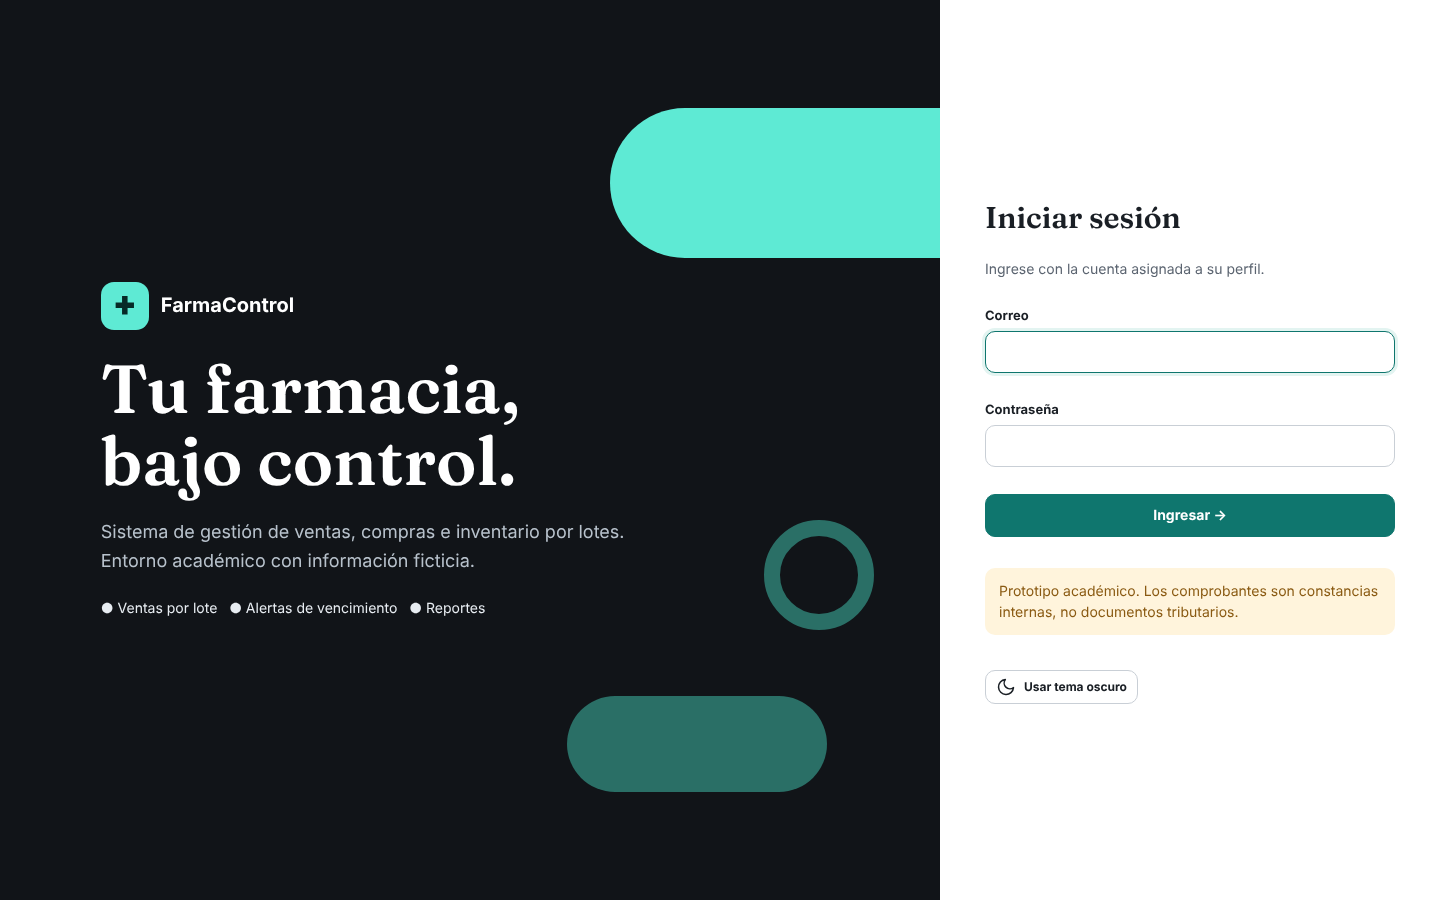
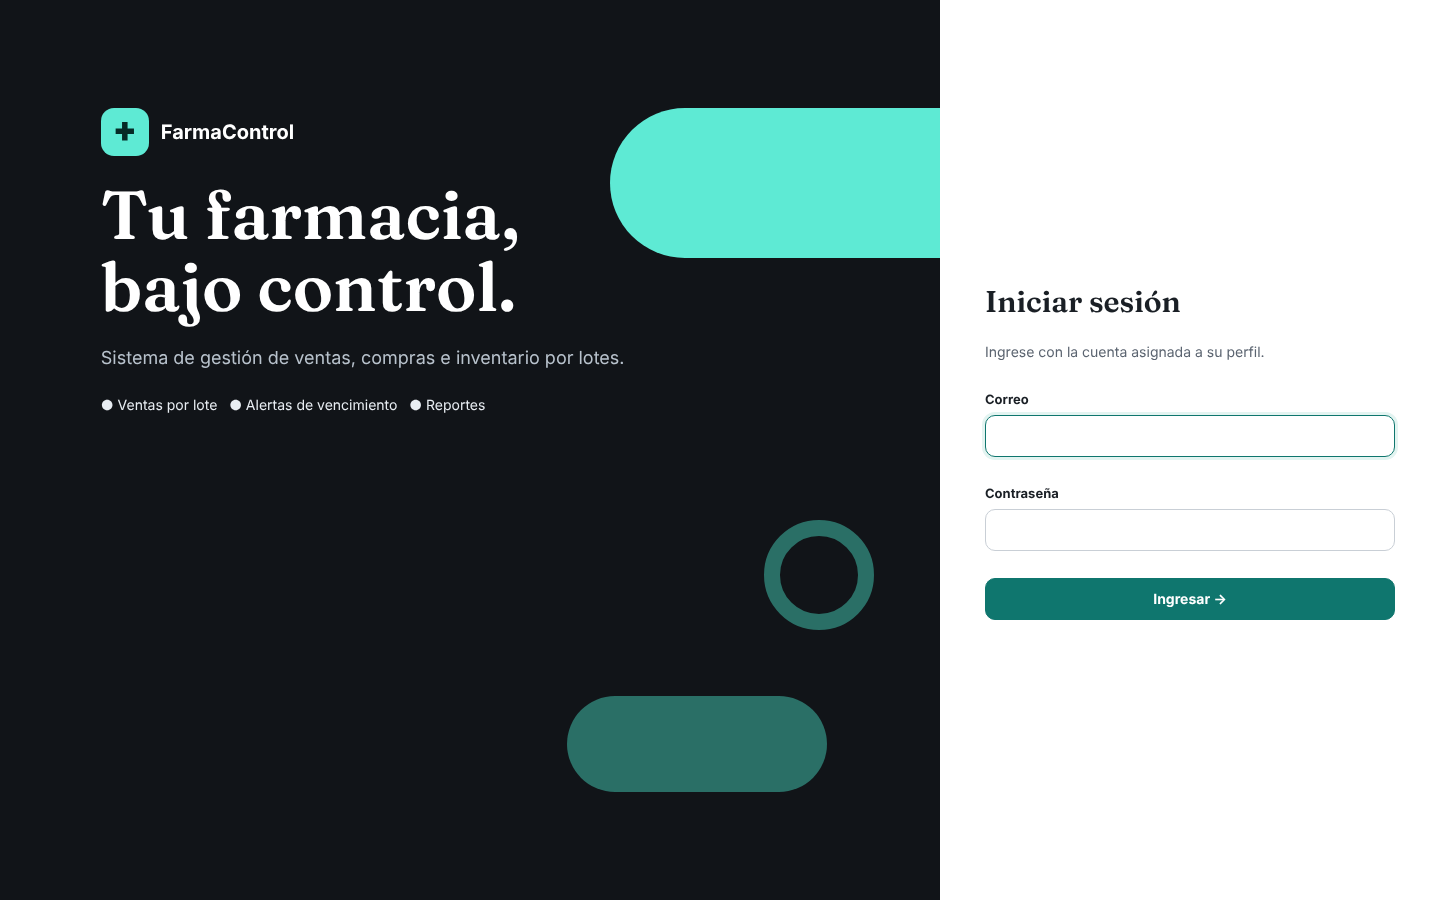
Perfil y Preferencias como botones a la derecha (nombre y rol bajo el perfil); Usuarios dentro de Perfil solo para administradores; login sin aviso de prototipo ni botón de tema, texto más arriba
Claude-Session: https://claude.ai/code/session_014cnpy8R1kKib1nZVMZExW2

diff --git a/views/js/main.js b/views/js/main.js
@@ -1,5 +1,5 @@
 import { api, session, setUnauthorizedHandler } from './api.js';
-import { h, toast, modal, formDialog } from './ui.js';
+import { h, toast } from './ui.js';
 import * as inicio from './pages/inicio.js';
 import * as venta from './pages/venta.js';
 import * as ventas from './pages/ventas.js';
@@ -11,6 +11,7 @@ import * as reportes from './pages/reportes.js';
 import * as admin from './pages/admin.js';
 import * as reposicion from './pages/reposicion.js';
 import * as preferencias from './pages/preferencias.js';
+import * as perfil from './pages/perfil.js';
 import { icon } from './iconos.js';
 
 // Permisos de la interfaz: solo controlan qué se muestra. La autorización real la aplica el servidor.
@@ -40,10 +41,10 @@ const PAGES = [
   { id: 'proveedores', label: 'Proveedores', icon: '⛟', perm: 'proveedores:read', mod: maestros.proveedores },
   ['Administración'],
   { id: 'reportes', label: 'Reportes', icon: '▥', perm: 'reportes:read', mod: reportes },
-  { id: 'usuarios', label: 'Usuarios y perfiles', icon: '⚙', perm: 'usuarios:read', mod: admin.usuarios },
   { id: 'auditoria', label: 'Auditoría', icon: '✎', perm: 'auditoria:read', mod: admin.auditoria },
-  ['Cuenta'],
-  { id: 'preferencias', label: 'Preferencias', icon: '⚙', mod: preferencias },
+  // Accesibles desde los botones de la derecha de la barra superior (no aparecen en el riel).
+  { id: 'perfil', label: 'Perfil', icon: '', mod: perfil, top: true },
+  { id: 'preferencias', label: 'Preferencias', icon: '', mod: preferencias, top: true },
 ];
 
 const $ = (s) => document.querySelector(s);
@@ -52,15 +53,12 @@ let current = null;
 
 function renderLogin() {
   $('#app').classList.add('hidden'); const el = $('#login'); el.classList.remove('hidden');
-  el.innerHTML = `<div class="loginHero"><span class="shape s1" aria-hidden="true"></span><span class="shape s2" aria-hidden="true"></span><span class="shape s3" aria-hidden="true"></span><div class="logoBar"><div class="logoMark">✚</div><span>FarmaControl</span></div><h1>Tu farmacia,<br>bajo control.</h1><p>Sistema de gestión de ventas, compras e inventario por lotes. Entorno académico con información ficticia.</p><div>● Ventas por lote &nbsp; ● Alertas de vencimiento &nbsp; ● Reportes</div></div>
+  el.innerHTML = `<div class="loginHero"><span class="shape s1" aria-hidden="true"></span><span class="shape s2" aria-hidden="true"></span><span class="shape s3" aria-hidden="true"></span><div class="logoBar"><div class="logoMark">✚</div><span>FarmaControl</span></div><h1>Tu farmacia,<br>bajo control.</h1><p>Sistema de gestión de ventas, compras e inventario por lotes.</p><div>● Ventas por lote &nbsp; ● Alertas de vencimiento &nbsp; ● Reportes</div></div>
   <form class="loginForm" id="loginForm" novalidate><h2>Iniciar sesión</h2><p>Ingrese con la cuenta asignada a su perfil.</p><div data-error></div>
   <div class="field"><label for="correo">Correo</label><input class="input" id="correo" name="correo" type="email" autocomplete="username" required></div>
   <div class="field"><label for="contrasena">Contraseña</label><input class="input" id="contrasena" name="contrasena" type="password" autocomplete="current-password" required></div>
   <button class="btn primary" type="submit">Ingresar →</button>
-  <div class="notice warning" style="margin-top:18px">Prototipo académico. Los comprobantes son constancias internas, no documentos tributarios.</div>
-  <button class="btn small loginTheme" type="button" id="loginTheme"></button></form>`;
-  const lt = el.querySelector('#loginTheme'); const pint = () => { const t = window.FCPrefs.leer().tema; lt.innerHTML = `${icon(t === 'oscuro' ? 'sol' : 'luna')} ${t === 'oscuro' ? 'Usar tema claro' : 'Usar tema oscuro'}`; };
-  pint(); lt.addEventListener('click', () => { window.FCPrefs.alternarTema(); pint(); paintThemeBtn(); });
+</form>`;
   $('#loginForm').addEventListener('submit', async (e) => {
     e.preventDefault();
     const f = e.target; const box = f.querySelector('[data-error]'); box.innerHTML = '';
@@ -74,10 +72,11 @@ function renderLogin() {
 
 function startApp() {
   $('#login').classList.add('hidden'); $('#app').classList.remove('hidden');
-  $('#userLabel').textContent = `${user.nombres} · ${user.rol}`;
+  $('#userName').textContent = user.nombres; $('#userRole').textContent = perfil.rolLabel(user.rol); $('#avatar').textContent = perfil.iniciales(user.nombres);
+  $('#perfilBtn').setAttribute('aria-label', `Perfil de ${user.nombres}, ${perfil.rolLabel(user.rol)}`);
   const nav = PAGES.map((p) => {
     if (Array.isArray(p)) return `<div class="navGroup">${h(p[0])}</div>`;
-    if (p.perm && !can(user, p.perm)) return '';
+    if (p.top || (p.perm && !can(user, p.perm))) return '';
     return `<a class="nav" href="#/${p.id}" data-page="${p.id}" aria-label="${h(p.label)}"><span class="icobox">${icon(p.id)}</span><span class="nlabel" aria-hidden="true">${h(p.label)}</span></a>`;
   }).join('').replace(/<div class="navGroup">[^<]*<\/div>(?=<div class="navGroup">|$)/g, '');
   $('#sidebar').innerHTML = `<div class="logoBar"><div class="logoMark">✚</div><span>FarmaControl</span></div>${nav}<div class="sideNote"><span class="dotState" id="driverDot" role="img" aria-label="Verificando conexión" title="Verificando conexión…"></span><span class="muted" style="font-size:11px">v2.2</span></div>`;
@@ -91,10 +90,11 @@ async function route() {
   let page = PAGES.find((p) => !Array.isArray(p) && p.id === id && (!p.perm || can(user, p.perm)));
   if (!page) { page = PAGES.find((p) => p.id === 'inicio'); if (id !== 'inicio') location.hash = '#/inicio'; }
   document.querySelectorAll('.nav[data-page]').forEach((a) => a.classList.toggle('active', a.dataset.page === page.id));
+  $('#perfilBtn').classList.toggle('active', page.id === 'perfil'); $('#prefBtn').classList.toggle('active', page.id === 'preferencias');
   $('#topTitle').textContent = page.label; $('#topIcon').innerHTML = icon(page.id); $('#sidebar').classList.remove('open');
   const content = $('#content'); const token = (current = Symbol());
   content.innerHTML = ''; const host = document.createElement('div'); host.innerHTML = '<p class="muted">Cargando…</p>'; content.appendChild(host); // contenedor nuevo: evita acumular listeners
-  try { await page.mod.render(host, { user, can: (p) => can(user, p), go: (hash) => { location.hash = hash; }, isCurrent: () => current === token }); }
+  try { await page.mod.render(host, { user, can: (p) => can(user, p), go: (hash) => { location.hash = hash; }, isCurrent: () => current === token, logout: () => logout(false) }); }
   catch (e) { if (current === token) host.innerHTML = `<div class="notice warning" role="alert">${h(e.message)}</div>`; }
   content.focus({ preventScroll: true });
 }
@@ -104,17 +104,11 @@ function logout(silent) {
   session.token = null; user = null; current = null; renderLogin();
 }
 
-function changePassword() {
-  formDialog({ title: 'Cambiar mi contraseña', submitLabel: 'Actualizar', fields: [
-    { name: 'actual', label: 'Contraseña actual', type: 'password', req: true, autocomplete: 'current-password' },
-    { name: 'nueva', label: 'Nueva contraseña', type: 'password', req: true, autocomplete: 'new-password', hint: 'Mínimo 10 caracteres, con mayúsculas, minúsculas y números.' }],
-  onSubmit: async (v) => { await api.post('/api/auth/password', v); toast('Contraseña actualizada.'); } });
-}
 
 setUnauthorizedHandler(() => { if (user) { toast('Su sesión expiró. Inicie sesión nuevamente.', 'error'); logout(true); } });
 window.addEventListener('hashchange', route);
 $('#logoutBtn').addEventListener('click', () => logout(false));
-$('#pwdBtn').addEventListener('click', changePassword);
+$('#logoutBtn').innerHTML = `${icon('salir')}<span>Salir</span>`; $('#prefIco').innerHTML = icon('preferencias');
 function paintThemeBtn() { const t = window.FCPrefs.leer().tema; $('#themeBtn').innerHTML = `${icon(t === 'oscuro' ? 'sol' : 'luna')}<span>${t === 'oscuro' ? 'Claro' : 'Oscuro'}</span>`; $('#themeBtn').setAttribute('aria-label', t === 'oscuro' ? 'Cambiar a tema claro' : 'Cambiar a tema oscuro'); }
 $('#themeBtn').addEventListener('click', () => { window.FCPrefs.alternarTema(); paintThemeBtn(); if ((location.hash || '').includes('preferencias')) route(); });
 window.addEventListener('fc:tema', paintThemeBtn);

diff --git a/docs/evidencias/recorrido_ui_v22_perfil.js b/docs/evidencias/recorrido_ui_v22_perfil.js
@@ -1,0 +1,31 @@
+const { chromium } = require('playwright');
+(async () => {
+  const B = process.argv[2], OUT = process.argv[3]; const b = await chromium.launch(); const errs = [];
+  const login = async (p, c, k) => { await p.goto(B); await p.waitForSelector('#loginForm'); await p.fill('#correo', c); await p.fill('#contrasena', k); await p.click('#loginForm button[type=submit]'); await p.waitForSelector('.sidebar .nav'); };
+  const ctx = await b.newContext({ viewport: { width: 1440, height: 900 } }); const p = await ctx.newPage();
+  p.on('pageerror', e => errs.push(String(e))); p.on('console', m => { if (m.type() === 'error') errs.push(m.text()); });
+  await p.goto(B); await p.waitForSelector('#loginForm'); await p.waitForTimeout(700);
+  console.log('login: aviso prototipo =', await p.locator('text=Prototipo').count(), '| botón tema =', await p.locator('#loginTheme').count(), '| texto ficticio =', await p.locator('text=ficticia').count());
+  console.log('posición h1 del login (y):', await p.evaluate(() => Math.round(document.querySelector('.loginHero h1').getBoundingClientRect().top)));
+  await p.screenshot({ path: OUT + '/01_login.png' });
+  await login(p, 'admin@farmacontrol.local', 'Admin#2026Fc');
+  console.log('riel sin Usuarios/Preferencias:', await p.locator('.nav[data-page=usuarios], .nav[data-page=preferencias], .nav[data-page=perfil]').count());
+  console.log('botón perfil:', await p.locator('#perfilBtn').innerText());
+  await p.waitForTimeout(500); await p.screenshot({ path: OUT + '/02_admin_resumen.png' });
+  await p.click('#perfilBtn'); await p.waitForSelector('.profileCard'); await p.waitForSelector('#adminUsers [data-edit]'); await p.waitForTimeout(600);
+  console.log('admin ve usuarios:', await p.locator('#adminUsers [data-edit]').count(), 'filas editables; perfil activo:', await p.locator('#perfilBtn.active').count());
+  await p.screenshot({ path: OUT + '/03_admin_perfil.png', fullPage: true });
+  await p.locator('#adminUsers [data-edit]').first().click(); await p.waitForSelector('.modal'); console.log('diálogo editar:', await p.locator('.modal h3').innerText()); await p.keyboard.press('Escape');
+  await p.click('#prefBtn'); await p.waitForSelector('.themeCard'); console.log('preferencias activo:', await p.locator('#prefBtn.active').count());
+  await p.click('[data-tema=oscuro]'); await p.waitForTimeout(400); await p.screenshot({ path: OUT + '/04_admin_pref_oscuro.png' }); await p.click('[data-tema=claro]');
+  const c2 = await b.newContext({ viewport: { width: 1440, height: 900 } }); const q = await c2.newPage(); q.on('pageerror', e => errs.push(String(e)));
+  await login(q, 'quimico@farmacontrol.local', 'Quimico#2026Fc'); await q.click('#perfilBtn'); await q.waitForSelector('.profileCard'); await q.waitForTimeout(500);
+  console.log('químico botón:', await q.locator('#perfilBtn').innerText(), '| ve usuarios:', await q.locator('#adminUsers *').count());
+  await q.screenshot({ path: OUT + '/05_quimico_perfil.png' });
+  await q.click('#out'); await q.waitForSelector('#loginForm'); console.log('cerrar sesión desde perfil: ok');
+  const m = await b.newContext({ viewport: { width: 390, height: 844 } }); const r = await m.newPage(); r.on('pageerror', e => errs.push(String(e)));
+  await login(r, 'cajero@farmacontrol.local', 'Cajero#2026Fc'); await r.waitForTimeout(500);
+  console.log('móvil scroll horizontal:', await r.evaluate(() => document.documentElement.scrollWidth > innerWidth));
+  await r.screenshot({ path: OUT + '/06_movil.png' });
+  console.log('errores:', errs.length ? errs : 'ninguno'); await b.close();
+})();

diff --git a/views/js/pages/perfil.js b/views/js/pages/perfil.js
@@ -1,0 +1,35 @@
+import { api } from '../api.js';
+import { h, title, toast, formDialog } from '../ui.js';
+import { icon } from '../iconos.js';
+import { usuarios } from './admin.js';
+
+const ROL = { 'Quimico farmaceutico': 'Químico farmacéutico' };
+export const rolLabel = (r) => ROL[r] || r || '';
+export const iniciales = (n) => String(n || '?').trim().split(/\s+/).slice(0, 2).map((p) => p[0]).join('').toUpperCase();
+
+// Perfil del usuario que usa el sistema. Para el Administrador incluye además la gestión de usuarios (CU-11).
+export async function render(el, ctx) {
+  const u = ctx.user;
+  el.innerHTML = title('Perfil', 'Sus datos de acceso. Los permisos dependen del perfil asignado por el administrador.') + `
+  <div class="panel profileCard">
+    <span class="avatar big" aria-hidden="true">${h(iniciales(u.nombres))}</span>
+    <div class="profileData">
+      <strong class="hd" style="font-size:22px">${h(u.nombres)}</strong>
+      <span class="muted">${h(u.correo || '')}</span>
+      <span><span class="badge info">${h(rolLabel(u.rol))}</span></span>
+    </div>
+    <div class="rowButtons">
+      <button class="btn" type="button" id="pwd">${icon('llave')} Cambiar mi contraseña</button>
+      <a class="btn" href="#/preferencias">${icon('preferencias')} Preferencias</a>
+      <button class="btn danger" type="button" id="out">${icon('salir')} Cerrar sesión</button>
+    </div>
+  </div>
+  <div id="adminUsers"></div>`;
+  el.querySelector('#pwd').addEventListener('click', () => formDialog({ title: 'Cambiar mi contraseña', submitLabel: 'Actualizar', fields: [
+    { name: 'actual', label: 'Contraseña actual', type: 'password', req: true, autocomplete: 'current-password' },
+    { name: 'nueva', label: 'Nueva contraseña', type: 'password', req: true, autocomplete: 'new-password', hint: 'Mínimo 10 caracteres, con mayúsculas, minúsculas y números.' }],
+  onSubmit: async (v) => { await api.post('/api/auth/password', v); toast('Contraseña actualizada.'); } }));
+  el.querySelector('#out').addEventListener('click', () => ctx.logout());
+  // Solo el Administrador ve y edita los usuarios; el servidor vuelve a comprobar el permiso en cada petición.
+  if (ctx.can('usuarios:read')) await usuarios.render(el.querySelector('#adminUsers'), ctx);
+}

diff --git a/views/css/app.css b/views/css/app.css
@@ -195,3 +195,24 @@ html[data-motion="reducido"] *,html[data-motion="reducido"] *::before{animation:
 .recetaBox{border:1px solid var(--line);border-radius:var(--r);padding:10px 12px;margin:0 0 14px;background:var(--surface2)}
 .subTabs{display:flex;gap:6px;margin:6px 0 12px}.subTabs .btn.on{background:var(--primary);color:var(--on-primary);border-color:var(--primary)}
 .chips{display:flex;flex-wrap:wrap;gap:6px;margin:6px 0}
+/* Versión 2.2b: perfil y preferencias como botones a la derecha */
+.topBtn{display:inline-flex;align-items:center;gap:8px;padding:5px 10px 5px 6px;border-radius:12px;border:1px solid transparent;color:var(--ink);text-decoration:none;min-height:44px}
+.topBtn:hover{background:var(--surface2)}.topBtn.active{border-color:var(--primary);background:var(--mint)}
+#perfilBtn{flex-direction:column;gap:2px;padding:4px 10px;text-align:center}
+#perfilBtn .topTxt{display:flex;flex-direction:column;line-height:1.15}
+#perfilBtn b{font-size:12.5px;max-width:150px;overflow:hidden;text-overflow:ellipsis;white-space:nowrap}
+#perfilBtn small{font-size:11px;color:var(--muted)}
+.topIco{display:inline-grid;place-items:center;width:34px;height:34px;border-radius:9px;background:var(--surface2);color:var(--ink)}
+#prefBtn .topTxt{font-weight:700;font-size:13px}
+.avatar{display:inline-grid;place-items:center;width:32px;height:32px;border-radius:9px;background:var(--rail);color:var(--rail-on);font-weight:800;font-size:13px;letter-spacing:.02em;flex:none}
+html[data-theme="oscuro"] .avatar{background:var(--rail-on);color:var(--rail-on-ink)}
+.avatar.big{width:72px;height:72px;border-radius:18px;font-size:26px}
+.profileCard{display:flex;align-items:center;gap:20px;flex-wrap:wrap}
+.profileData{display:flex;flex-direction:column;gap:4px;flex:1 1 220px;min-width:0}
+.topbar{padding-top:8px;padding-bottom:8px}
+#logoutBtn{min-height:36px}
+/* Acceso: texto principal más arriba */
+.loginHero{justify-content:flex-start;padding-top:12vh}
+@media(max-width:860px){#prefBtn .topTxt,#logoutBtn span{display:none}}
+@media(max-width:480px){#perfilBtn .topTxt{display:none}#perfilBtn{padding:4px}}
+a.btn{text-decoration:none}

diff --git a/views/js/pages/admin.js b/views/js/pages/admin.js
@@ -5,7 +5,7 @@ import { h, title, table, badge, formDialog, toast, fdt } from '../ui.js';
 export const usuarios = {
   async render(el, ctx) {
     const roles = await api.get('/api/roles'); let rows = [];
-    el.innerHTML = title('Usuarios y perfiles', 'Cuentas del sistema y perfil asignado. Los permisos se verifican en el servidor en cada petición.') + `<div class="panel"><div class="actions"><span></span><button class="btn primary" id="new">+ Nuevo usuario</button></div><div id="tbl"></div></div>
+    el.innerHTML = title('Usuarios del sistema', 'Solo administradores: cree cuentas, cambie el perfil asignado, active o desactive usuarios y restablezca contraseñas. Los permisos se verifican en el servidor en cada petición.') + `<div class="panel"><div class="actions"><span></span><button class="btn primary" id="new">+ Nuevo usuario</button></div><div id="tbl"></div></div>
     <div class="panel"><h3>Matriz de permisos por perfil</h3>${table([{ label: 'Perfil', key: 'p' }, { label: 'Ventas', key: 'v' }, { label: 'Compras / lotes', key: 'c' }, { label: 'Recetas', key: 'r' }, { label: 'Reportes / usuarios', key: 'a' }], [
       { p: 'Administrador', v: 'Registrar y anular', c: 'Registrar', r: 'Registrar', a: 'Administración total' }, { p: 'Cajero', v: 'Registrar', c: '—', r: 'Consultar', a: '—' },
       { p: 'Almacenero', v: '—', c: 'Registrar', r: '—', a: 'Consulta de inventario' }, { p: 'Quimico farmaceutico', v: 'Consultar', c: '—', r: 'Registrar', a: 'Alertas y movimientos' }])}</div>`;

diff --git a/views/index.html b/views/index.html
@@ -16,7 +16,7 @@
   <div class="main">
     <header class="topbar">
       <div class="topleft"><button class="btn small menu-btn" id="menuBtn" aria-label="Abrir menú">☰</button><span class="titleIcon" id="topIcon" aria-hidden="true"></span><h1 id="topTitle">Resumen</h1></div>
-      <div class="topmeta"><span id="userLabel"></span><button class="btn small" id="themeBtn" type="button" aria-label="Cambiar entre tema claro y oscuro"></button><button class="btn small" id="pwdBtn">Mi contraseña</button><button class="btn small" id="logoutBtn">Salir</button></div>
+      <div class="topmeta"><button class="btn small" id="themeBtn" type="button" aria-label="Cambiar entre tema claro y oscuro"></button><a class="topBtn" id="prefBtn" href="#/preferencias"><span class="topIco" id="prefIco" aria-hidden="true"></span><span class="topTxt">Preferencias</span></a><a class="topBtn" id="perfilBtn" href="#/perfil"><span class="avatar" id="avatar" aria-hidden="true"></span><span class="topTxt"><b id="userName"></b><small id="userRole"></small></span></a><button class="btn small" id="logoutBtn" type="button" aria-label="Cerrar sesión"></button></div>
     </header>
     <main id="content" class="content" tabindex="-1"></main>
   </div>

diff --git a/views/js/iconos.js b/views/js/iconos.js
@@ -15,6 +15,9 @@ const D = {
   usuarios: 'M12 22s8-4 8-10V5l-8-3-8 3v7c0 6 8 10 8 10z M12 11.5a2.5 2.5 0 1 0 0-5 2.5 2.5 0 0 0 0 5 M7.8 17a4.3 4.3 0 0 1 8.4 0',
   auditoria: 'M2 12s3.5-7 10-7 10 7 10 7-3.5 7-10 7S2 12 2 12z M12 15a3 3 0 1 0 0-6 3 3 0 0 0 0 6',
   preferencias: 'M4 21v-7 M4 10V3 M12 21v-9 M12 8V3 M20 21v-5 M20 12V3 M1 14h6 M9 8h6 M17 16h6',
+  perfil: 'M12 12a4 4 0 1 0 0-8 4 4 0 0 0 0 8 M4 21a8 8 0 0 1 16 0',
+  llave: 'M14.5 4a5.5 5.5 0 1 1-4.8 8.2L3 19v2h3v-2h2v-2h2l1.2-1.2 M16.5 7.5h.01',
+  salir: 'M9 21H5a2 2 0 0 1-2-2V5a2 2 0 0 1 2-2h4 M16 17l5-5-5-5 M21 12H9',
   sol: 'M12 17a5 5 0 1 0 0-10 5 5 0 0 0 0 10z M12 1v2 M12 21v2 M4.2 4.2l1.4 1.4 M18.4 18.4l1.4 1.4 M1 12h2 M21 12h2 M4.2 19.8l1.4-1.4 M18.4 5.6l1.4-1.4',
   luna: 'M21 12.8A9 9 0 1 1 11.2 3a7 7 0 0 0 9.8 9.8z',
 };

diff --git a/docs/APARIENCIA_V2_2.md b/docs/APARIENCIA_V2_2.md
@@ -12,9 +12,16 @@ Estilo elegido por el equipo en el estudio de diseño (23 de noviembre de 2026),
 | Tablas | **Cuadrícula**: bordes en todas las celdas | `th`, `td`, `.tableWrap` |
 | Animación | **Deslizar**: las pantallas, el ticket y los diálogos entran deslizándose | `@keyframes fcUp/fcRight/fcModal` |
 
+## Barra superior, Perfil e inicio de sesión (ajuste del 23/11/2026)
+
+- A la derecha de la barra superior: botón de tema, **Preferencias**, **Perfil** (iniciales del usuario con su **nombre y rol debajo**) y **Salir**.
+- «Usuarios y perfiles» salió del riel y pasó a **Perfil**: todos ven sus datos, cambian su contraseña y cierran sesión; **solo el Administrador** ve debajo «Usuarios del sistema» para crear y editar cuentas (el servidor sigue comprobando el permiso `usuarios:read/write`).
+- Inicio de sesión: se quitaron el aviso de prototipo, la frase de información ficticia y el botón de tema; el texto principal está más arriba.
+- Recorrido automatizado en modo memoria (`docs/evidencias/recorrido_ui_v22_perfil.js`): el administrador ve y edita 4 usuarios; el químico ve su perfil sin la gestión de usuarios; cerrar sesión desde Perfil funciona; sin errores de JavaScript; móvil sin desplazamiento horizontal.
+
 ## Preferencias del usuario
 
-- Menú **Cuenta › Preferencias** (todos los perfiles) y botón **Oscuro/Claro** en la barra superior y en el inicio de sesión.
+- Botón **Preferencias** en la barra superior (todos los perfiles) y botón **Oscuro/Claro** junto a él.
 - Opciones: **Tema** (Claro, predeterminado · Oscuro) y **Animaciones** (Activadas · Reducidas). Si el sistema operativo pide reducir movimiento, las animaciones se desactivan siempre.
 - Se guardan en el almacenamiento local **del navegador** (`farmacontrol.tema`, `farmacontrol.animaciones`), **no en la base de datos ni en la cuenta**: en otro equipo se empieza con el tema claro. `views/js/tema.js` aplica el tema antes de pintar la página para evitar parpadeos.
 - Las fuentes se sirven desde el mismo servidor porque la política de seguridad (CSP `default-src 'self'`) no permite cargar Google Fonts.
